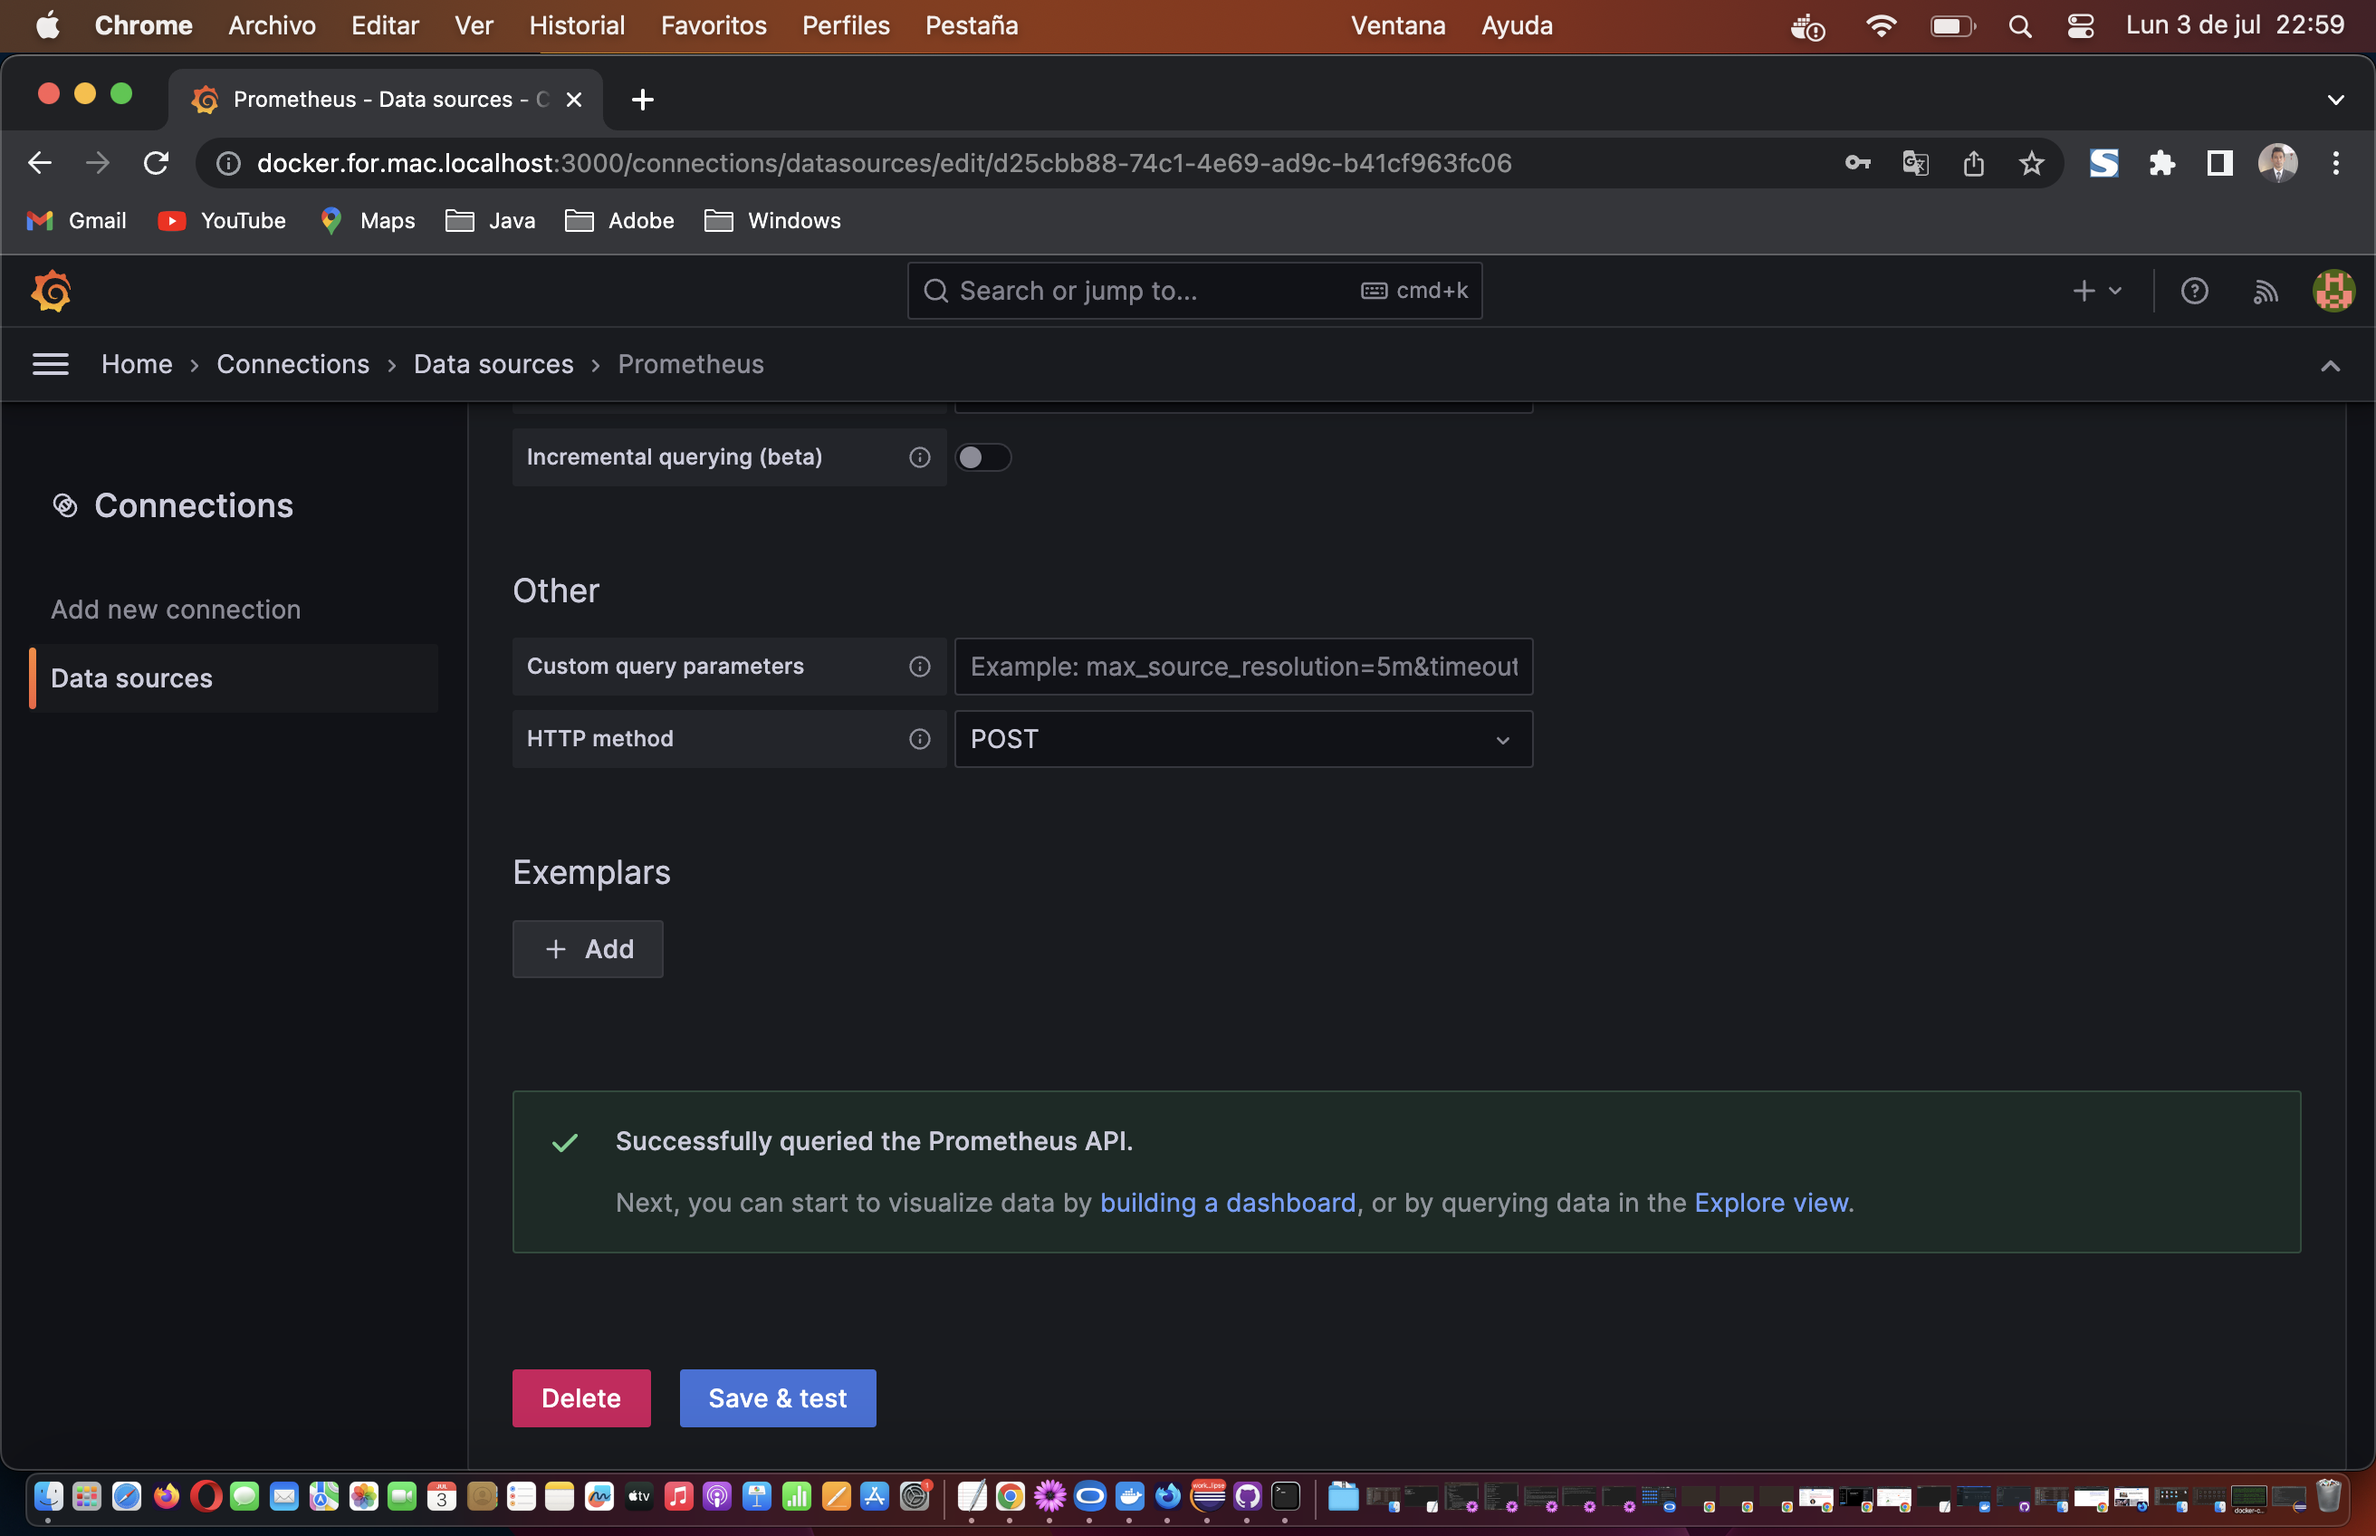
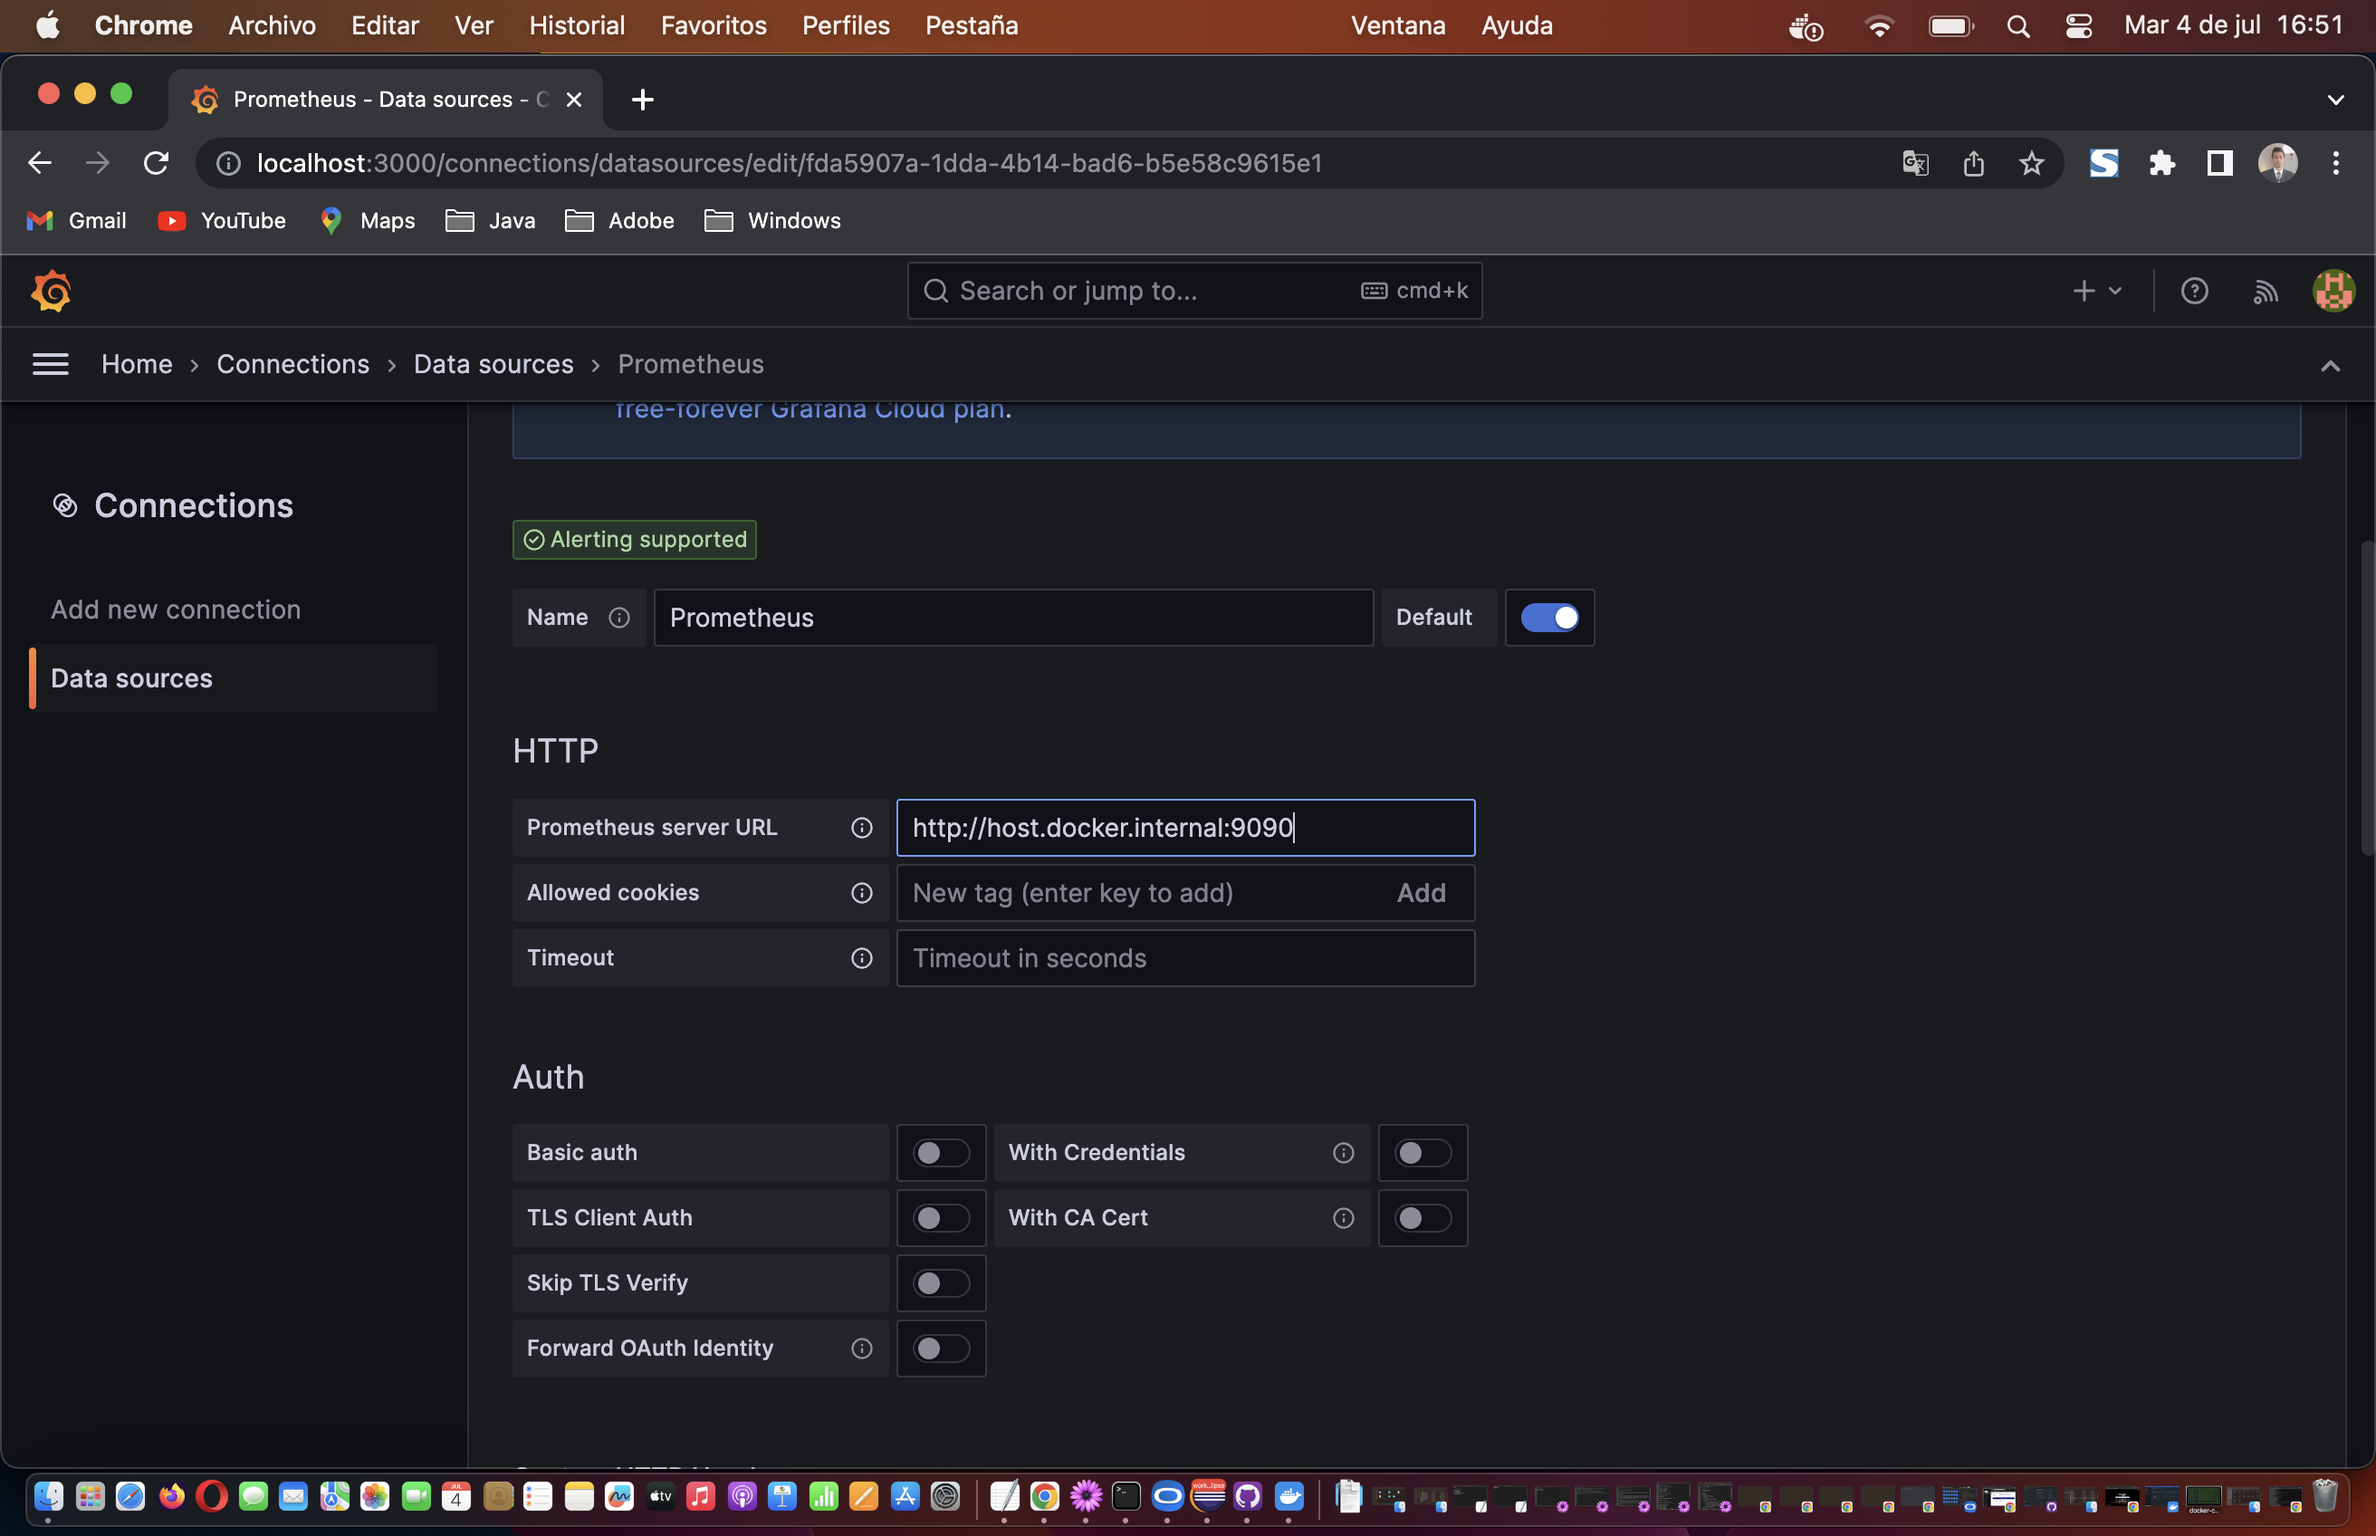
Updated several files

diff --git a/README.md b/README.md
@@ -27,9 +27,9 @@ I wanted to do a Spring Boot Application, that shows metrics using Prometheus an
 - If you have Prometheus and Grafana installed you need to run them.
 - Otherwise you need docker-compose installed so that you can run Prometheus and Grafana as docker containers.
 - If you are using MacOS uncomment the following from docker-compose.yml instead of localhost:
-      -  GF_SERVER_DOMAIN=docker.for.mac.localhost
-- If you are using Macos uncomment the following from prometheus.yml instead of localhost:
-      - targets: ['docker.for.mac.localhost:8080']
+      - GF_SERVER_DOMAIN=host.docker.internal
+- If you are using MacOS uncomment the following from prometheus.yml instead of localhost:
+      - targets: ['host.docker.internal:8080']
 
 ## Running the application
 
@@ -44,7 +44,7 @@ I wanted to do a Spring Boot Application, that shows metrics using Prometheus an
 
    ![Grafana folder](images/02.png)
    
-4. Open a browser and type: [http://docker.for.mac.localhost:9090](http://docker.for.mac.localhost:9090)
+4. Open a browser and type: [http://localhost:9090](http://localhost:9090)
 
    You should see something like this:
    ![Prometheus container](images/03.png)
@@ -59,7 +59,7 @@ I wanted to do a Spring Boot Application, that shows metrics using Prometheus an
    
    The Endpoint State is DOWN. Because we haven't started the Spring Boot application.
    
-7. Open a browser and type: [http://docker.for.mac.localhost:3000](http://docker.for.mac.localhost:3000)
+7. Open a browser and type: [http://localhost:3000](http://localhost:3000)
 
    You should see something like this:
    ![Grafana container](images/06.png)
@@ -94,7 +94,9 @@ I wanted to do a Spring Boot Application, that shows metrics using Prometheus an
 
    ![Prometheus Data source](images/12.png)
    
-13. Fill in the blank "Prometheus server URL" with `http://docker.for.mac.localhost:9090`
+13. Fill in the blank "Prometheus server URL" with `http://host.docker.internal:9090`
+    
+    ![Prometheus server URL](images/13.png)
     
 14. Go to the end of the page and click on "Save & test":
 
@@ -104,7 +106,7 @@ I wanted to do a Spring Boot Application, that shows metrics using Prometheus an
    
 15. Then you should see this:
 
-    ![Prometheus data source connected](images/13.png)
+    ![Prometheus data source connected](images/14.png)
 
     Successfully queried the Prometheus API.
     Next, you can start to visualize data by building a dashboard, or by querying data in the Explore view.
@@ -115,23 +117,27 @@ I wanted to do a Spring Boot Application, that shows metrics using Prometheus an
     
     Then in the right button click on New -> import
     
-    ![Grafana import](images/14.png)
+    ![Grafana import](images/15.png)
     
-    ![Grafana import dashboard](images/15.png)
+    ![Grafana import dashboard](images/16.png)
     
 17. Click on "Upload dashboard JSON file", and select the dashboard on `/spring-boot-prometheus-grafana/docker/metrics/grafana/dashboard/Spring Boot Statistics Dashboard.json`
 
 18 Then you should see this:
 
-   ![Grafana import dashboard json](images/16.png)
+   ![Grafana import dashboard json](images/17.png)
    
-19. Select Prometheus in he combo box, and click on Import button:
+19. Select the data source for this dashboard:
+
+   ![Grafana select data source](images/18.png)
+   
+20. Select Prometheus in he combo box, and click on Import button:
 
     You'll see empty graphs:
     
-    ![Grafana dashboard](images/17.png)
+    ![Grafana dashboard](images/19.png)
     
-20. Start the Spring Boot application, so that you can start seeing the metrics and to see the Prometheus Endpoint State to UP:
+21. Start the Spring Boot application, so that you can start seeing the metrics and to see the Prometheus Endpoint State to UP:
 
 ECLIPSE CONSOLE:
 ----------------
@@ -177,28 +183,31 @@ ECLIPSE CONSOLE:
 
 21. Refresh the browser where you have Prometheus:
 
-    [http://docker.for.mac.localhost:9090](http://docker.for.mac.localhost:9090)
+    [http://localhost:9090](http://localhost:9090)
 
-    ![Prometheus Endpoint State UP](images/18.png)
+    ![Prometheus Endpoint State UP](images/20.png)
 
 22. Refresh the browser wher you have Grafana: 
     
-    [http://docker.for.mac.localhost:3000/d/sOae4vCnk/spring-boot-statistics?orgId=1&refresh=5s](http://docker.for.mac.localhost:3000/d/sOae4vCnk/spring-boot-statistics?orgId=1&refresh=5s0)
+    [http://localhost:3000/d/sOae4vCnk/spring-boot-statistics?orgId=1&refresh=5s](http://localhost:3000/d/sOae4vCnk/spring-boot-statistics?orgId=1&refresh=5s0)
 
-    ![Grafana metrics shown](images/19.png)
+    ![Grafana metrics shown](images/21.png)
 
 23. Now that you have your application up and running, you can check the metrics sent to Prometheus:
 
-    [http://docker.for.mac.localhost:8080/actuator/prometheus](http://docker.for.mac.localhost:8080/actuator/prometheus)
+    [http://localhost:8080/actuator/prometheus](http://localhost:8080/actuator/prometheus)
 
-    ![Prometheus Endpoint State UP](images/20.png)
+    ![Prometheus Endpoint State UP](images/22.png)
 
 ## Notes
 
 - By default, a Spring Boot application exposes JVM and HTTP request metrics, among other things. 
 
-- The following link helped me to avoid errors because of MacOS:
-[localhost not working on Mac](https://stackoverflow.com/questions/45538299/localhost-not-working-in-docker-for-mac)
+- The following links helped me to avoid errors because of MacOS:
+
+    [localhost not working on Mac](https://stackoverflow.com/questions/45538299/localhost-not-working-in-docker-for-mac)
+
+    [Getting error "Get http://localhost:9443/metrics: dial tcp 127.0.0.1:9443: connect: connection refused"](https://stackoverflow.com/questions/54397463/getting-error-get-http-localhost9443-metrics-dial-tcp-127-0-0-19443-conne)
 
 ## Bibliography
 
